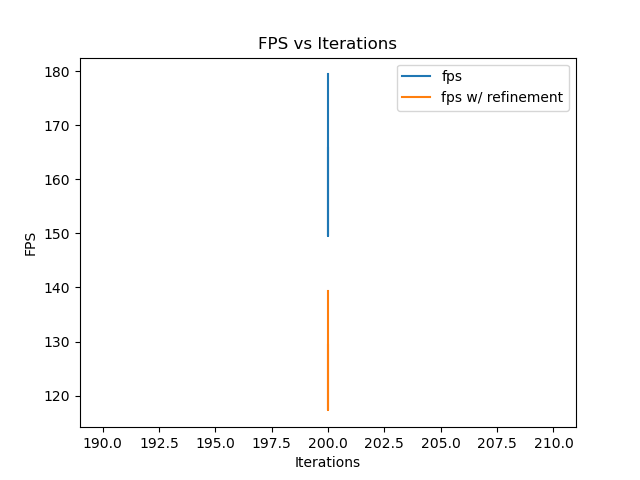
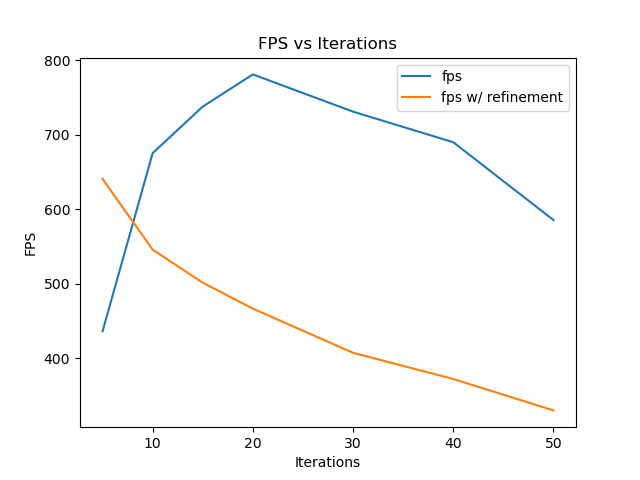
Update eps value and iterate over a predefined list of iterations in eps_test.py

diff --git a/eps_test.py b/eps_test.py
@@ -975,7 +975,7 @@ if __name__ == "__main__":
         opts.frontend = 'RANSAC_refine'
 
     if opts.dataset == 'lm':
-        eps = 0.15
+        eps = 0.08
         eps_list = []
         offset_list = []
         offset_list_w_refinement = []
@@ -986,8 +986,7 @@ if __name__ == "__main__":
         fps_list_w_refinement = []
         iteration_list = []
         iterations = [5, 10, 15, 20, 30, 40, 50, 60, 100, 200, 400]
-        while eps < 0.4:
-            itr = 200
+        for itr in iterations:
             print("Current eps: ", eps)
             offset, stds, fps, offset_w_refinement, std_w_refinement, fps_w_refinement, inlier = estimate_6d_pose_lm(opts, eps, itr)
             iteration_list.append(itr)
@@ -1088,7 +1087,7 @@ if __name__ == "__main__":
 
             with open(os.path.join(output_dir, 'results.txt'), 'a') as f:
                 f.write(f"Epsilon: {eps}, Iterations {itr}, Offset: {offset}, Offset with Refinement: {offset_w_refinement}, Std: {stds}, Std with Refinement: {std_w_refinement}, Inlier: {inlier}, FPS: {fps}, FPS with Refinement: {fps_w_refinement}\n")
-            eps += 0.01
+
 
     if opts.dataset == 'lmo':
         estimate_6d_pose_lmo(opts)
